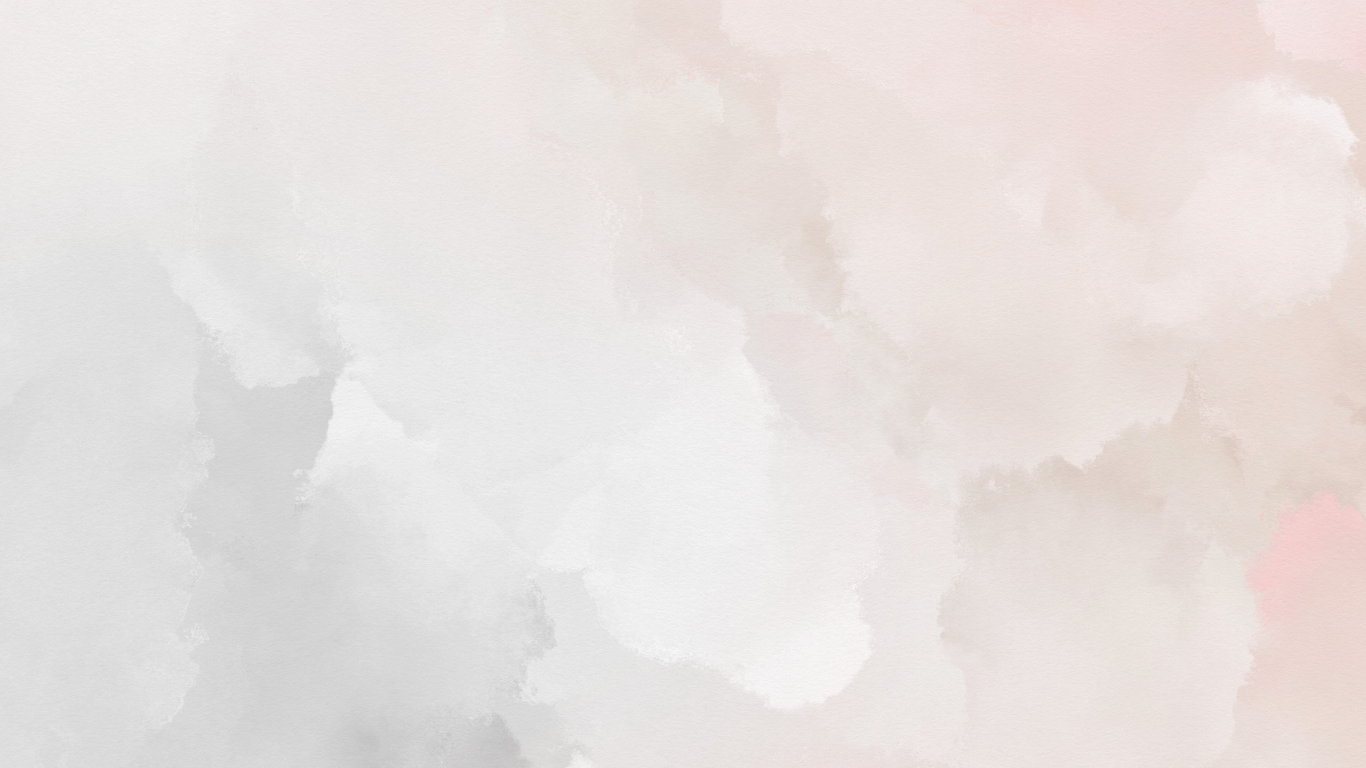
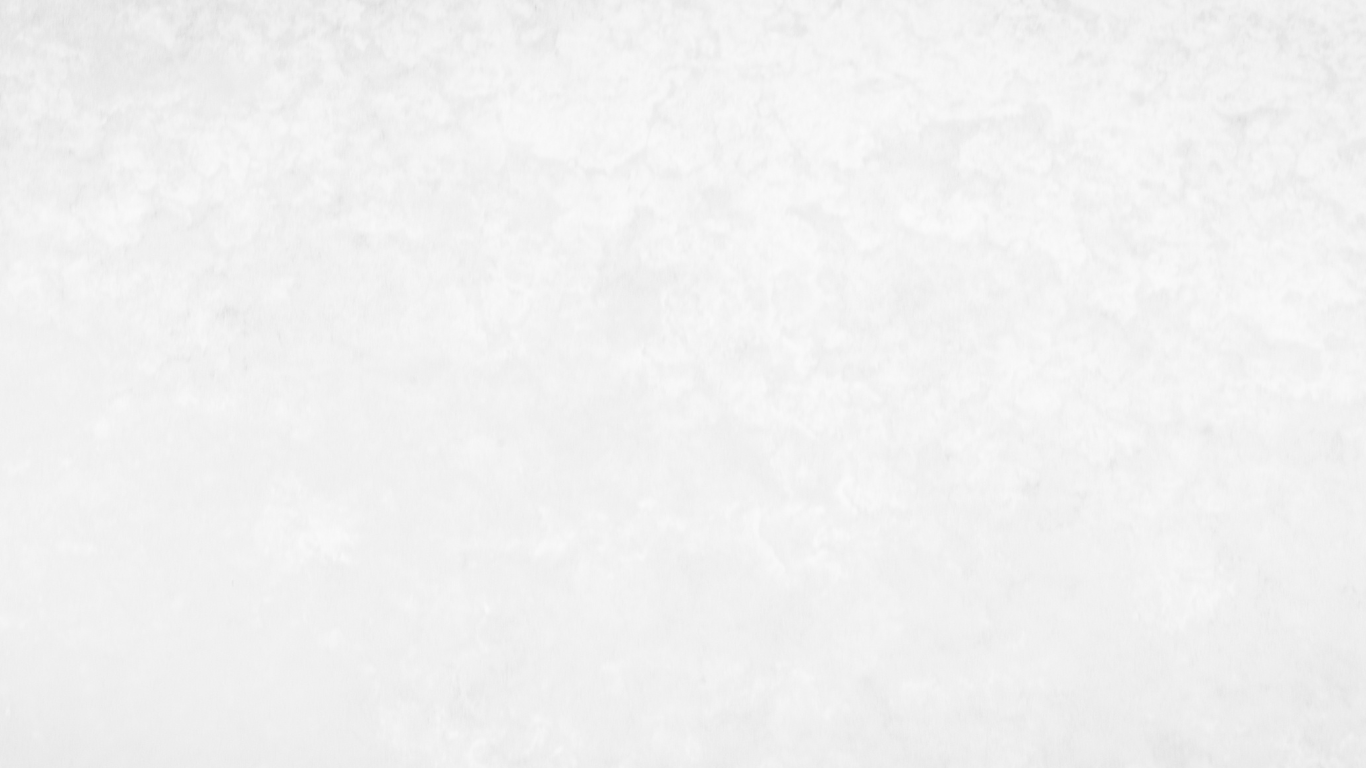
Skills, Certifications, and Projects

diff --git a/src/components/Certifications.js b/src/components/Certifications.js
@@ -1,0 +1,111 @@
+import React from "react";
+import { Container } from "react-bootstrap";
+import { Link } from "react-router-dom";
+import aws from "../assets/img/aws.png";
+import google from "../assets/img/google.png";
+import li from "../assets/img/li.png";
+
+
+
+const Certifications = () => {
+  return (
+    <section className= "certifications">
+    <h1 className= "certhead"> Certifications</h1>
+    <Container className="mt-5 mb-3 help">
+      <div className="row">
+        <div className="col-md-4">
+          <div className="card p-3 mb-2">
+            <div className="d-flex justify-content-between">
+              <div className="d-flex flex-row align-items-center">
+               <img className= "icon" src={aws} alt="icon" /> 
+                <div className="ms-2 c-details">
+                  <h6 className="mb-0">AWS</h6> <span>February 2023</span>
+                </div>
+              </div>
+              <div className="badge"> <span>Cloud</span> </div>
+            </div>
+            <div className="mt-5">
+              <h3 className="heading">AWS Cloud Practioner</h3>
+              <div className="mt-5">
+                <div className="progress">
+                  <div className="progress-bar" role="progressbar" style={{ width: "100%" }} aria-valuenow="50" aria-valuemin="0" aria-valuemax="100"></div>
+                </div>
+                <div className="mt-3"> <a href="https://www.credly.com/badges/9a413c99-36a7-475d-8e7a-2d229ec559f9"> Check Out My Certificate! </a> </div>
+              </div>
+            </div>
+          </div>
+        </div>
+        <div className="col-md-4">
+          <div className="card p-3 mb-2">
+            <div className="d-flex justify-content-between">
+              <div className="d-flex flex-row align-items-center">
+              <img className= "icon" src={google} alt="icon" /> 
+                <div className="ms-2 c-details">
+                  <h6 className="mb-0">Google</h6> <span>March 2023</span>
+                </div>
+              </div>
+              <div className="badge"> <span>PM</span> </div>
+            </div>
+            <div className="mt-5">
+              <h3 className="heading">Google Project Management </h3>
+              <div className="mt-5">
+                <div className="progress">
+                  <div className="progress-bar" role="progressbar" style={{ width: "100%" }} aria-valuenow="50" aria-valuemin="0" aria-valuemax="100"></div>
+                </div>
+                <div className="mt-3"> <a href="https://www.credly.com/badges/65b112ba-1ebc-4be1-8400-9084514bb97c/linked_in_profile"> Check Out My Certificate! </a> </div>
+              </div>
+            </div>
+          </div>
+        </div>
+        <div className="col-md-4">
+          <div className="card p-3 mb-2">
+            <div className="d-flex justify-content-between">
+              <div className="d-flex flex-row align-items-center ">
+              <img className= "icon" src={li} alt="icon" /> 
+                <div className="ms-2 c-details">
+                  <h6 className="mb-0">LinkedIn</h6> <span>March 2023</span>
+                </div>
+              </div>
+              <div className="badge"> <span>Design</span> </div>
+                </div>
+                <div class="mt-5">
+                    <h3 class="heading">Figma For UX Design </h3>
+                    <div class="mt-5">
+                        <div class="progress">
+                            <div class="progress-bar" role="progressbar" style={{ width: "100%" }} aria-valuenow="50" aria-valuemin="0" aria-valuemax="100"></div>
+                        </div>
+                        <div className="mt-3"> <a href="https://www.linkedin.com/learning/certificates/ff08f777a24b7d04af8d854dba053cfdd03b2ff3462f006e69290dd8115f74bc"> Check Out My Certificate! </a> </div>
+                    </div>
+                </div>
+            </div>
+        </div>
+    </div>
+    <div className="col-md-4">
+          <div className="card p-3 mb-2">
+            <div className="d-flex justify-content-between">
+              <div className="d-flex flex-row align-items-center">
+              <img className= "icon" src={google} alt="icon" /> 
+                <div className="ms-2 c-details">
+                  <h6 className="mb-0">Google</h6> <span>March 2023</span>
+                </div>
+              </div>
+              <div className="badge"> <span>PM</span> </div>
+            </div>
+            <div className="mt-5">
+              <h3 className="heading">Google Project Management </h3>
+              <div className="mt-5">
+                <div className="progress">
+                  <div className="progress-bar" role="progressbar" style={{ width: "100%" }} aria-valuenow="50" aria-valuemin="0" aria-valuemax="100"></div>
+                </div>
+                <div className="mt-3"> <a href="https://www.credly.com/badges/65b112ba-1ebc-4be1-8400-9084514bb97c/linked_in_profile"> Check Out My Certificate! </a> </div>
+              </div>
+            </div>
+          </div>
+        </div>
+    </Container>
+    </section>
+
+)
+};
+
+export default Certifications;

diff --git a/src/App.css b/src/App.css
@@ -24,6 +24,8 @@
   font-weight: 400;
 }
 
+
+
 /* Default CSS */
 
 
@@ -426,8 +428,117 @@ textarea {
 
 
 
-/************ Contact ************/
+/************ Skills ************/
 
 .skills {
   background-image: url('./assets/img/skills-bg.png');
+  height: 1000px;
+  background-position: top center;
+  background-size: cover;
+  background-repeat: no-repeat;
+
 }
+
+
+
+
+
+/************ Projects ************/
+
+.projects {
+  background-image: url('./assets/img/projects-bg.png');
+  height: 1000px;
+  background-position: top center;
+  background-size: cover;
+  background-repeat: no-repeat;
+}
+
+
+
+/************ Certificationss ************/
+
+.certifications {
+  background-image: url('./assets/img/skills-bg2.png');
+  height: 1000px;
+  background-position: top center;
+  background-size: cover;
+  background-repeat: no-repeat;
+  
+}
+
+
+.certhead {
+  font-size: 60px;
+  font-family: ReenieBeanie;
+  font-weight: bold;
+  color: #292a2d;
+  margin-bottom: 60px;
+  padding-top: 30px;
+  
+}
+
+
+.card-columns {
+  column-count: 3;
+}
+
+
+.card {
+  border: none;
+  border-radius: 10px;
+
+  
+  
+}
+
+.card:hover {
+  transform: scale(1.2);
+}
+
+.c-details span {
+  font-weight: 300;
+  font-size: 13px
+}
+
+.icon {
+  width: 50px;
+  height: 50px;
+  background-color: #eee;
+  border-radius: 15px;
+  display: flex;
+  align-items: center;
+  justify-content: center;
+  font-size: 39px
+}
+
+.badge span {
+  background-color: #e1b9c3;
+  width: 60px;
+  height: 25px;
+  padding-bottom: 3px;
+  border-radius: 5px;
+  display: flex;
+  color: #16140e;
+  justify-content: center;
+  align-items: center;
+
+}
+
+.progress {
+  height: 10px;
+  border-radius: 10px
+}
+
+.progress div {
+  background-color: #91b0a9; 
+}
+
+.text1 {
+  font-size: 14px;
+  font-weight: 600
+}
+
+.text2 {
+  color: #a5aec0
+}
+

diff --git a/src/Pages/Skills.Js b/src/Pages/Skills.Js
@@ -1,5 +1,5 @@
 import React from "react";
-import NorthernVirginia from "../assets/img/NorthernVirginia.png";
+import Certifications from "../components/Certifications";
 
 
 
@@ -8,20 +8,18 @@ export const Skills = () => {
 
 
 
-    return(
-
+    return (
+<div>
         <section className="skills" id="skills">
 
-<div>
-    <h1>Yo</h1>
+           </section>
+
+           <Certifications/>
+          
+
 </div>
-
-        </section>
-
-
 
     )
 }
-
 
 export default Skills; 
